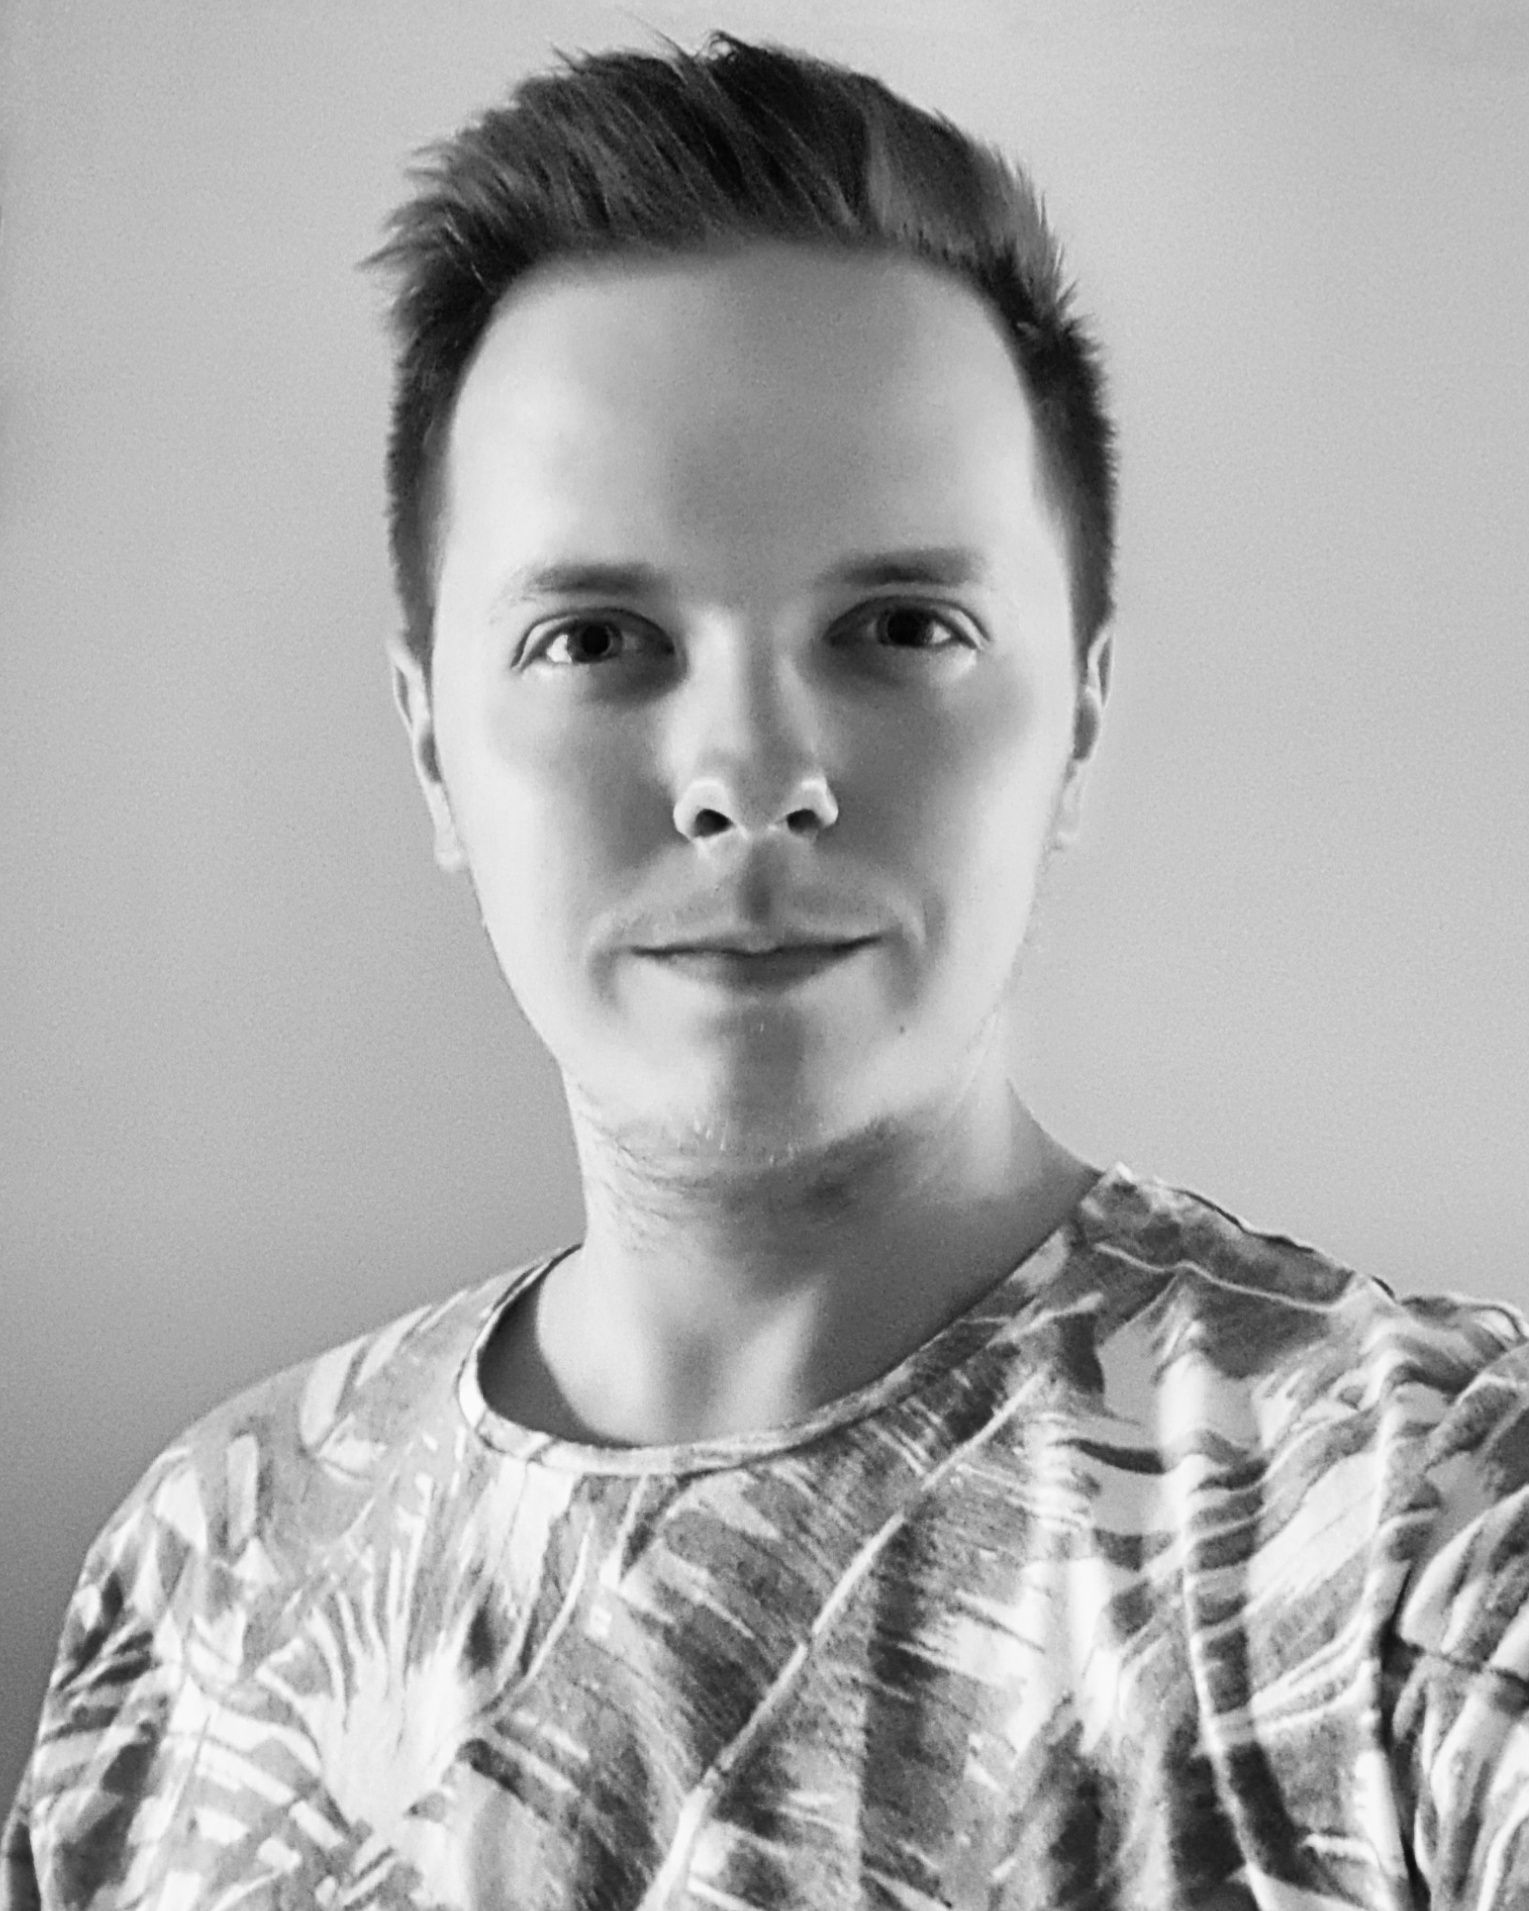
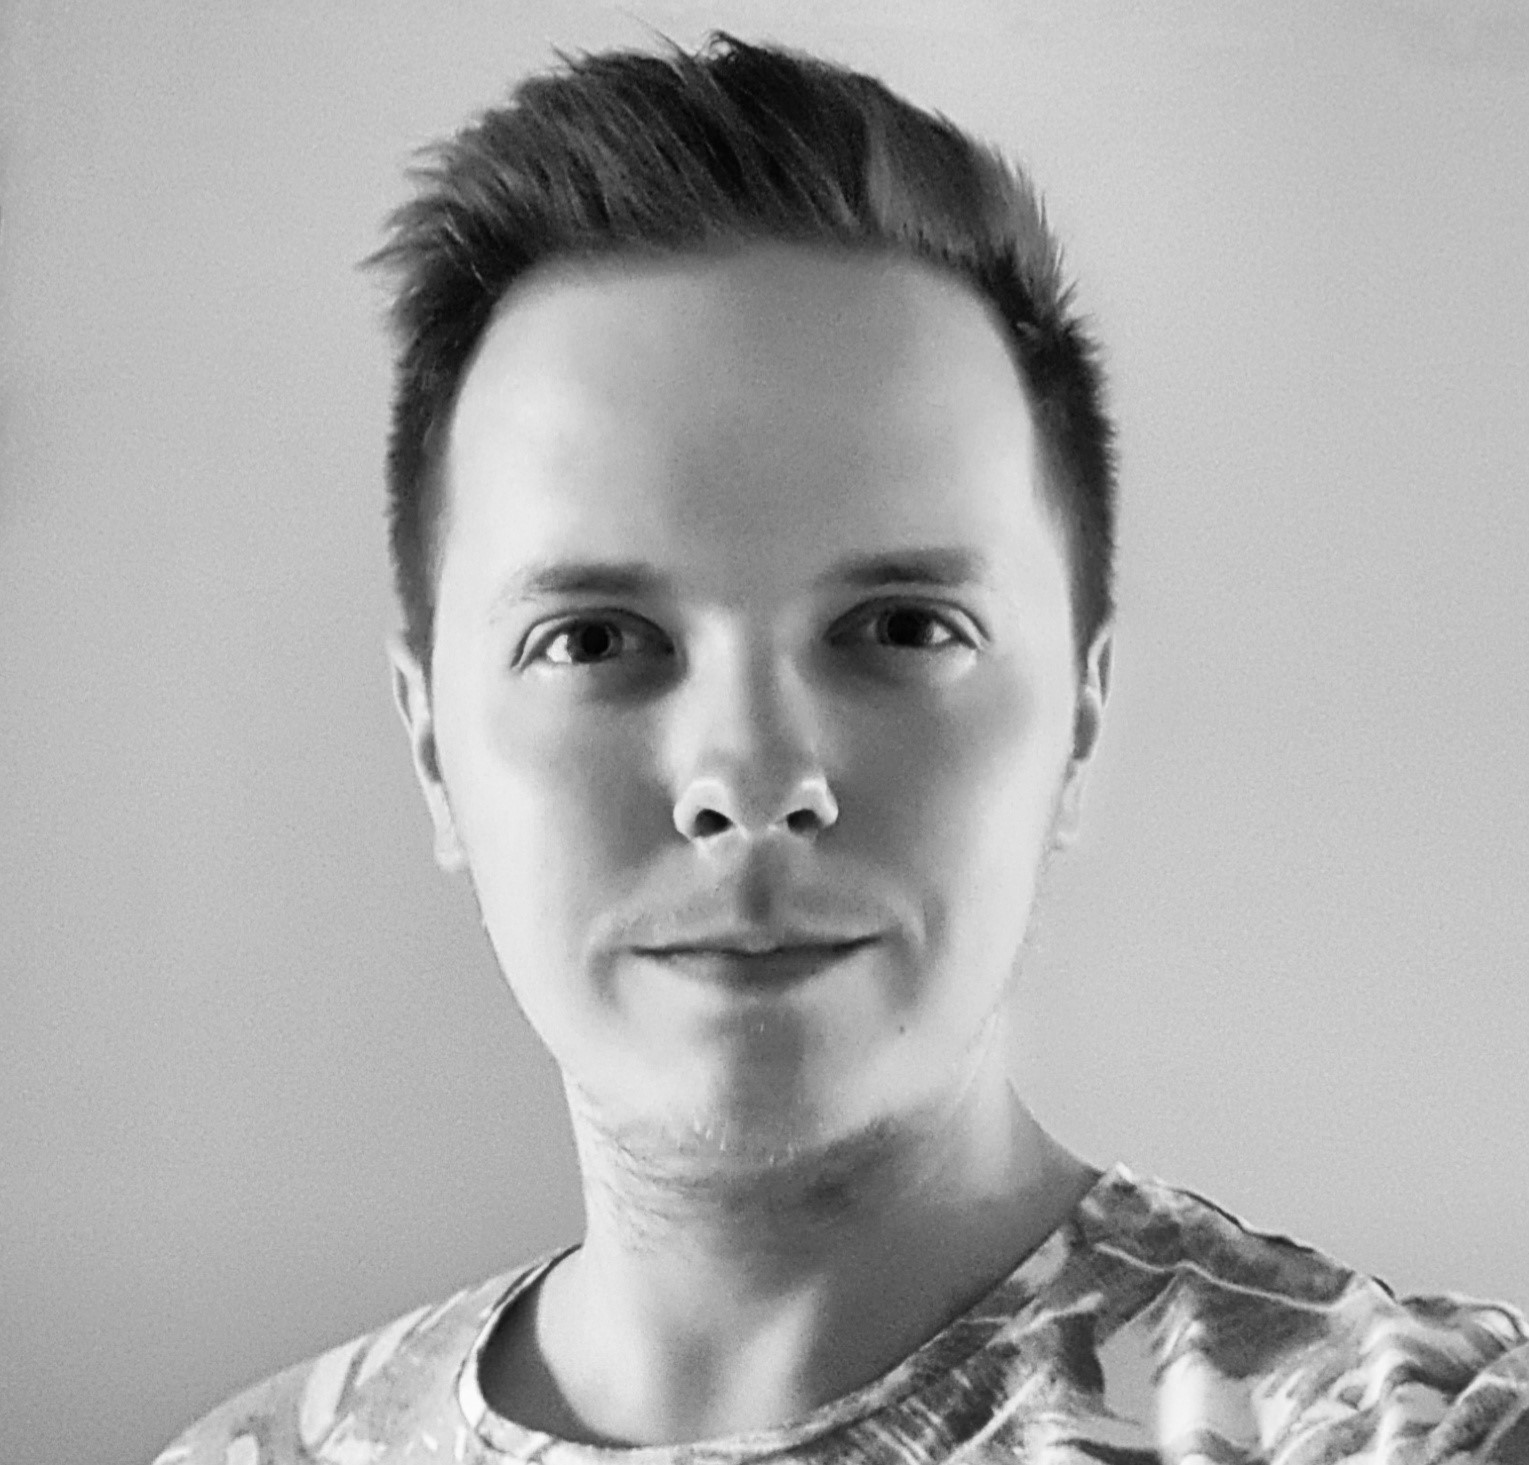
crop profile picture

diff --git a/style.css b/style.css
@@ -1,3 +1,70 @@
-h1, p {
-    text-align: center;
+/* styles.css */
+
+body {
+    margin: 0;
+    background: #f4f4f4;
+}
+
+.circle-frame {
+    width: 200px;
+    height: 200px;
+    border-radius: 50%;
+    overflow: hidden;
+    display: flex;
+    justify-content: center;
+    align-items: center;
+    box-shadow: 0 0 10px rgba(0, 0, 0, 0.1);
+    position: absolute; /* Placera ramen absolut */
+    top: 100px; /* Justera avstånd från toppen */
+    left: 50%; /* Centrera horisontellt */
+    transform: translateX(-50%); /* Justera för absolut centering */
+}
+
+.circle-frame img {
+    position: absolute; /* Ändra positionering till absolut */
+    top: 0;
+    left: 0;
+    width: 100%;
+    height: 100%;
+    object-fit: cover;
+    transition: transform 0.3s ease;
+}
+
+.circle-frame:hover img {
+    transform: scale(1.1);
+}
+
+/* Justera bildens position inom ramen */
+.position-top-left {
+    transform: translate(-10%, -10%);
+}
+
+.position-top-right {
+    transform: translate(-10%, 10%);
+}
+
+.position-bottom-left {
+    transform: translate(10%, -10%);
+}
+
+.position-bottom-right {
+    transform: translate(10%, 10%);
+}
+
+/* Exempel på en anpassad position */
+.position-custom {
+    transform: translate(0, 0); /* Anpassa detta efter behov */
+}
+
+@keyframes spin {
+    from {
+        transform: rotate(0deg);
+    }
+    to {
+        transform: rotate(360deg);
+    }
+}
+
+.spin {
+    animation: spin 1s ease-in-out;
 }

diff --git a/index.html b/index.html
@@ -8,8 +8,9 @@
         <title>MrRobiin</title>
     </head>
 <body>
-    <h1>Hello World</h1>
-    <p>I'm hosted with GitHub Pages.</p>
-    <p>More info coming soon...🫡</p>
+    <div class="circle-frame">
+        <img src="img\robin.jpg" alt="Image of Robin" class="position-custom" id="image">
+    </div>
+    <script src="script.js"></script>
 </body>
 </html>

diff --git a/script.js b/script.js
@@ -1,0 +1,9 @@
+
+const image = document.getElementById('image');
+
+image.addEventListener('dblclick', () => {
+    image.classList.add('spin');
+    setTimeout(() => {
+        image.classList.remove('spin');
+    }, 1000); // Tiden ska matcha varaktigheten för CSS-animationen
+});
